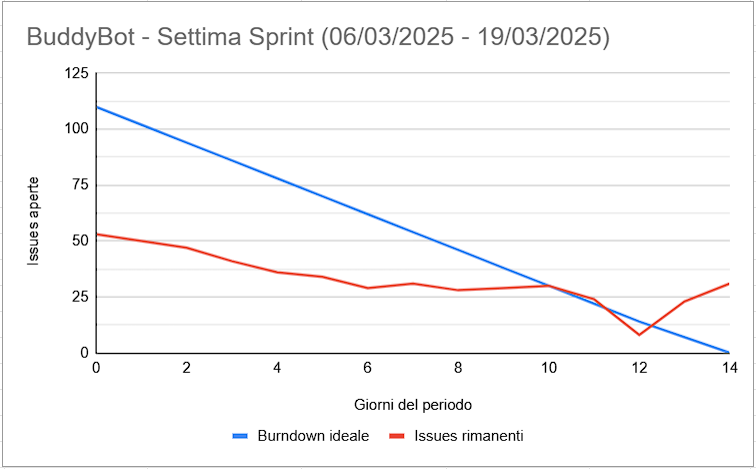
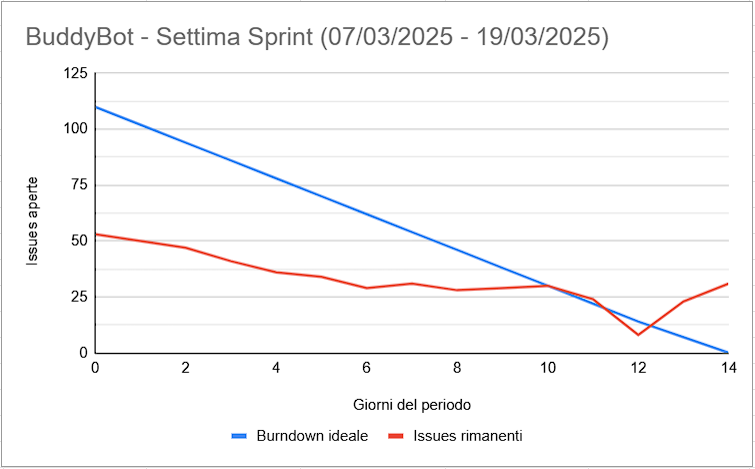
Inserite immagini diagrammi di burndown e di gantt per l'ottava sprint + altre modifiche

diff --git a/src/PB/Documentazione esterna/Piano di Qualifica/contenuti/cruscotto_valutazione_qualita.tex b/src/PB/Documentazione esterna/Piano di Qualifica/contenuti/cruscotto_valutazione_qualita.tex
@@ -24,7 +24,7 @@ preventivi orari vicini ai rispettivi consuntivi nel corso dell'andamento del pr
 nel preventivare il tempo necessario per lo svolgimento delle attività nella \emph{RTB}\textsubscript{\textbf{\textit{G}}}, capacità che poi è migliorata di molto nel corso della \emph{PB}\textsubscript{\textbf{\textit{G}}}. Il picco negativo si è manifestato nella seconda sprint, dove il team ha incontrato difficoltà
 nel modellare i \emph{Diagrammi dei Casi d'uso}\textsubscript{\textbf{\textit{G}}} e nel redigere i corrispettivi requisiti.
 Con il progredire delle sprint, il team ha acquisito maggiore esperienza nel preventivare
-il tempo necessario per lo svolgimento delle attività, riuscendo ad ottenere un valore di varianza oraria nullo, corrispondente al valore ottimo, nella sesta e nell'ottava e ultima sprint della \emph{PB}.
+il tempo necessario per lo svolgimento delle attività, riuscendo ad ottenere un valore di varianza oraria nullo, corrispondente al valore preferibile, nella sesta e nell'ottava e ultima sprint della \emph{PB}.
 
 \newpage
 
@@ -79,9 +79,10 @@ e la seconda sprint, per poi stabilizzarsi e migliorare nel corso delle sprint s
 
 Analizzando il grafico, si può notare come i tre valori abbiano sempre progredito seguendo una
 proporzione costante. In particolare, l’Actual Cost è stato sempre superiore al Planned Value,
-il quale a sua volta è stato sempre superiore all’Earned Value. Questo è dovuto al fatto che
-il team ha impiegato leggermente più tempo del previsto per svolgere leggermente meno attività preventivate.  
-In particolare, nelle ultime sprint vi è stato un leggero distacco tra l'Earned Value e gli altri due valori, dovuto al fatto che il team, pur rispettando il numero di ore, ha incontrato qualche difficoltà nelle attività di progettazione e programmazione.
+il quale a sua volta è stato sempre superiore all’Earned Value. Questo è dovuto al fatto che, in ciascuna sprint,
+il team ha impiegato leggermente più tempo del previsto per svolgere leggermente meno attività preventivate.\\
+In particolare, nelle ultime sprint vi è stato un leggero distacco tra l'Earned Value e gli altri due valori, dovuto al fatto che il team, pur rispettando il numero di ore, ha incontrato qualche difficoltà nelle attività di progettazione e programmazione.\\
+Tuttavia, il preventivo di valore da raggiungere concordato a inizio progetto, diverso dai preventivi delle singole sprint a cui si fa riferimento nel grafico, è stato regolarmente rispettato al termine dell'ultimo periodo.
 
 \newpage
 
@@ -97,11 +98,11 @@ In particolare, nelle ultime sprint vi è stato un leggero distacco tra l'Earned
 
 \section*{Analisi}
 
-Dal grafico, risulta ancora evidente come il team abbia avuto difficoltà nel
+Dal grafico, risulta evidente come il team abbia avuto difficoltà nel
 rispettare i costi preventivati, seppur abbia mediamente rispettato il numero di ore. La Schedule Variance e la Cost Variance sono infatti
-risultate sempre negative, tranne nelle ultime sprint delle revisioni \emph{RTB} e \emph{PB}, nelle quali si nota un miglioramento
+risultate sempre negative, tranne nelle ultime sprint dei periodi \emph{RTB} e \emph{PB}, nelle quali si nota un miglioramento
 significativo. I risultati peggiori si registrano nella seconda sprint e nella quinta sprint per i suddetti
-motivi, legati rispettivamenti all'analisi dei requisiti e alla progettazione: infatti, queste ultime rappresentano due tra le attività più costose del progetto, e quindi quando il team si è concentrato su di esse i costi sono saliti. Questo è il motivo per cui, seppur il numero di ore non sia mai stato largamente superato, la distribuzione delle stesse verso attività costose ha comportato una marcata varianza dei costi. Tuttavia, fortunatamente la varianza è stata bilanciata verso il termine delle revisioni, poiché le ore in quei periodi sono state dedicate ad attività come la codifica e la verifica, che sono meno costose.
+motivi, legati rispettivamenti all'analisi dei requisiti e alla progettazione: infatti, queste ultime rappresentano due tra le attività più costose del progetto, e quindi, quando il team si è concentrato su di esse, i costi sono saliti. Questo è il motivo per cui, seppur il numero di ore non sia mai stato largamente superato, la distribuzione delle stesse verso attività costose ha comportato una marcata varianza dei costi. Tuttavia, fortunatamente la varianza è stata bilanciata nelle sprint adiacenti al termine dei periodi \emph{RTB} e \emph{PB}, poiché le ore in quei periodi sono state dedicate ad attività come la codifica e la verifica, che sono meno costose.
 
 \newpage
 
@@ -119,12 +120,12 @@ motivi, legati rispettivamenti all'analisi dei requisiti e alla progettazione: i
 
 Similmente a quanto riscontrabile dall’analisi del grafico di Schedule e Cost Variance, anche
 il valore del Cost Performance Index è sceso sotto la soglia accettabile nella 
-sprint 2 e nella sprint 5, per poi recuperare nelle sprint terminali delle revisioni \emph{RTB} e \emph{PB}: ciò è dovuto, come suddetto, alle attività di analisi dei requisiti e di progettazione. Nella quarta sprint e nella settima sprint, invece, il team
+sprint 2 e nella sprint 5, per poi recuperare nelle sprint terminali dei periodi \emph{RTB} e \emph{PB}: ciò è dovuto, come suddetto, alle attività di analisi dei requisiti e di progettazione. Nella quarta sprint e nella settima sprint, invece, il team
 ha addirittura raggiunto un valore di Cost Performance Index superiore a 1, indicando
 che sono state spese meno risorse rispetto a quanto preventivato per lo svolgimento delle
 attività meno costose previste per le sprint finali.\\
-Il valore dello Schedule Performance Index è invece sempre stato inferiore a 1, addirittura scendendo sotto la soglia accettabile nella sprint 5, a indicare la difficoltà che il team ha avuto nel preventivare le ore in tale sprint, in cui, oltre alle difficoltà di progettazione, è da segnalare che metà gruppo è stato impegnato nello studio per il secondo appello di Ingegneria del Software.
-Nelle sprint 4, 7 ed 8, invece, lo Schedule Performance Index è risultato pari a 1, indicando che, come suddetto, verso la fine delle revisioni, il team è riuscito a svolgere
+Il valore dello Schedule Performance Index è invece sempre stato inferiore ad 1, addirittura scendendo sotto la soglia accettabile nella sprint 5, a indicare la difficoltà che il team ha avuto nel preventivare le ore in tale sprint, in cui, oltre alle difficoltà di progettazione, è da segnalare che metà gruppo è stato impegnato nello studio per il secondo appello di Ingegneria del Software.
+Nelle sprint 4, 7 ed 8, invece, lo Schedule Performance Index è risultato pari a 1, indicando che, come suddetto, verso la fine dei periodi \emph{RTB} e \emph{PB}, il team è riuscito a svolgere
 con successo tutte le attività preventivate.
 
 \newpage
@@ -142,7 +143,7 @@ con successo tutte le attività preventivate.
 \section*{Analisi}
 
 Durante il progetto, il team ha riscontrato difficoltà nell'applicare alcune misure di mitigazione
-per i rischi individuati.
+per i rischi individuati e riportati nel \emph{Piano di Progetto}\textsubscript{\textbf{\textit{G}}}.
 \begin{itemize}
     \item In particolare, per gestire i rischi legati alla comunicazione interna nella seconda sprint, è stato necessario che 
     tutti i membri del team si accordassero sia sulla sintassi che sulla semantica nella modellazione dei casi d'uso;
@@ -152,7 +153,7 @@ per i rischi individuati.
     un aiuto reciproco nella programmazione. La spartizione iniziale dei compiti prevedeva esploratori solitari per ciascuna 
     tecnologia e una bassa condivisione delle conoscenze. Questo ha reso difficile lavorare in gruppo e chiedere aiuto ai compagni 
     al momento dell'\emph{implementazione}\textsubscript{\textbf{\textit{G}}} del \emph{PoC}\textsubscript{\textbf{\textit{G}}};
-    \item Infine, nella quinta sprint, il team ha dovuto affrontare il rischio legato agli impegni accademici, poiché metà del gruppo ha dovuto studiare per il secondo appello di Ingegneria del Software. Questo ha comportato un rallentamento delle attività, che è stato mitigato con una ridistribuzione dei compiti e con un maggiore supporto reciproco.
+    \item Infine, nella quinta sprint, il team ha dovuto affrontare i rischi legati agli impegni accademici, poiché più di metà del gruppo ha dovuto studiare per il secondo appello di Ingegneria del Software. Questo ha comportato un rallentamento delle attività, che è stato mitigato con una ridistribuzione dei compiti e con un maggiore supporto reciproco.
 \end{itemize}
 Fortunamente, si può notare come il team abbia saputo reagire in modo efficace a queste difficoltà, riuscendo a presentare misure sufficienti per ciascuna di esse nelle ultime 3 sprint.
 
@@ -171,9 +172,9 @@ Fortunamente, si può notare come il team abbia saputo reagire in modo efficace 
 \section*{Analisi}
 
 Come osservabile dai valori riportati dal grafico, l’ampia analisi dei rischi effettuata a inizio progetto è stata soddisfacente. 
-L'unica problematica primaria riconoscibile come rischio non già presente nella sezione dedicata del \emph{Piano di progetto}\textsubscript{\textbf{\textit{G}}} è stata riscontrata solo al termine dei lavori: 
+L'unica problematica primaria riconoscibile come rischio non già presente nella sezione dedicata del \emph{Piano di progetto} è stata riscontrata solo al termine dei lavori: 
 si tratta dell'assenza di un professore, in particolare del professor Cardin, nell'ultima settimana di marzo, che ha comportato il posticipo del termine del progetto. 
-Fortunatamente, essendo questa problematica emersa solamente nel periodo finale del progetto, non ha causato ritardi su attività precedenti alla revisione \emph{Product Baseline}\textsubscript{\textbf{\textit{G}}}, 
+Fortunatamente, essendo questa problematica emersa solamente nella sprint finale, non ha causato ritardi su attività precedenti alla revisione \emph{Product Baseline}\textsubscript{\textbf{\textit{G}}}, 
 però potrebbe causare ritardi in caso emergano errori a valle della revisione.
 Inoltre, questa situazione ha costretto un componente del gruppo a posticipare l'inizio del proprio tirocinio, dimostrando l'impatto che i rischi inattesi possono avere sulla pianificazione personale dei membri del team.\\
 Il team si è trovato inizialmente impreparato, ma ha poi saputo reagire in modo efficace, 
@@ -281,11 +282,11 @@ L'\emph{MVP}\textsubscript{\textbf{\textit{G}}} sviluppato nella \emph{Product B
 
 Questi valori mostrano che la documentazione è generalmente accessibile e comprensibile, 
 dato che tutti i documenti superano la soglia accettabile di 40 nell'\emph{indice di Gulpease}\textsubscript{\textbf{\textit{G}}}, 
-con la maggior parte dei valori che si avvicinano al "valore preferibile" di 60. 
+con la maggior parte dei valori che si avvicinano al valore preferibile di 60. 
 In particolare, è utile notare come, nel grafico relativo all'andamento dell'indice di Gulpease dei verbali durante la \emph{RTB}\textsubscript{\textbf{\textit{G}}}, la linea di tendenza sia crescente,
 il che mostra un generale miglioramento da parte del gruppo nella qualità della documentazione prodotta.
 Questa tendenza è stata confermata nella \emph{Product Baseline}\textsubscript{\textbf{\textit{G}}},
-durante la quale il valore dell'indice per i verbali ha avuto una crescita meno evidente, ma si è stabilizzato attorno al "valore preferibile" di 60.
+durante la quale il valore dell'indice per i verbali ha avuto una crescita meno evidente, ma si è stabilizzato attorno al valore preferibile di 60.
 
 \newpage
 
@@ -300,4 +301,4 @@ durante la quale il valore dell'indice per i verbali ha avuto una crescita meno 
 \end{figure}
 
 \section*{Analisi}
-La \emph{Code Coverage}\textsubscript{\textbf{\textit{G}}} è un indicatore che misura la percentuale di codice sorgente coperto dai \emph{test}\textsubscript{\textbf{\textit{G}}}. Nel tentativo di migliorare questo indicatore, il team ha scritto \emph{test di unità}\textsubscript{\textbf{\textit{G}}} e \emph{test di integrazione}\textsubscript{\textbf{\textit{G}}} per ogni classe del \emph{backend}\textsubscript{\textbf{\textit{G}}} e per ogni componente del \emph{frontend}\textsubscript{\textbf{\textit{G}}}, raggiungendo un valore di coverage pari al 90\% per entrambi. Questo è un buon risultato, che dimostra l'efficacia dei test effettuati, e soprattutto che soddisfa la soglia minima richiesta dal \emph{proponente} \emph{AzzurroDigitale}\textsubscript{\textbf{\textit{G}}}, cioè 70/80\% di copertura, che il team è stato in grado anche di superare.
+La \emph{Code Coverage}\textsubscript{\textbf{\textit{G}}} è un indicatore che misura la percentuale di righe di codice sorgente coperte dai \emph{test}\textsubscript{\textbf{\textit{G}}}. Nel tentativo di migliorare questo indicatore, il team ha scritto \emph{test di unità}\textsubscript{\textbf{\textit{G}}} e \emph{test di integrazione}\textsubscript{\textbf{\textit{G}}} per ogni classe del \emph{backend}\textsubscript{\textbf{\textit{G}}} e per ogni componente del \emph{frontend}\textsubscript{\textbf{\textit{G}}}, raggiungendo un valore di coverage pari al 90\% per entrambi. Questo è un buon risultato, che dimostra l'efficacia dei test effettuati, e soprattutto che soddisfa la soglia minima richiesta dal \emph{proponente} \emph{AzzurroDigitale}\textsubscript{\textbf{\textit{G}}}, cioè 70/80\% di copertura, che il team è stato in grado anche di superare.

diff --git a/src/PB/Documentazione esterna/Piano di Progetto/contenuti/pianificazione.tex b/src/PB/Documentazione esterna/Piano di Progetto/contenuti/pianificazione.tex
@@ -409,11 +409,11 @@ Infine, abbiamo iniziato a lavorare all'ottimizzazione della gestione delle modi
     \begin{tabularx}{\textwidth}{|X|X|}\hline
     \rowcolor[HTML]{FFD700} 
     \textbf{Data di inizio} & \textbf{Data di fine} \\ \hline
-    06/03/2025 & 19/03/2025 \\ \hline
+    07/03/2025 & 19/03/2025 \\ \hline
     \end{tabularx}
     \caption{Settimo periodo dedicato alla PB}
 \end{table}
-Il settimo periodo, che va dal 6 al 19 marzo 2025, è stato dedicato principalmente alla programmazione dell'\emph{MVP}.\\
+Il settimo periodo, che va dal 7 al 19 marzo 2025, è stato dedicato principalmente alla programmazione dell'\emph{MVP}.\\
 In particolare, sono state implementate le seguenti funzionalità:
 \begin{itemize}
     \item L'ottimizzazione della gestione delle modifiche e delle eliminazioni dei documenti nell'aggiornamento automatico del \emph{database vettoriale}, che, in particolare, è stata implementata differenziando la gestione tra l'aggiornamento dei file di \emph{GitHub}\textsubscript{\textbf{\textit{G}}} e l'aggiornamento degli altri documenti;
@@ -434,15 +434,15 @@ Infine, il giorno mercoledì 19 marzo, al termine del periodo, abbiamo svolto la
 \begin{figure}[h] 
     \centering
     \includegraphics[width=\textwidth]{Settimo periodo/Diagramma di Gantt (prima parte) - Settimo periodo.png}
-    \caption{Diagramma di Gantt settimo periodo dal 21/02/2025 - 06/03/2025: prima parte} 
-    \label{fig: Diagramma di Gantt settimo periodo dal 21/02/2025 - 06/03/2025: prima parte}
+    \caption{Diagramma di Gantt settimo periodo dal 07/03/2025 - 19/03/2025: prima parte} 
+    \label{fig: Diagramma di Gantt settimo periodo dal 07/03/2025 - 19/03/2025: prima parte}
 \end{figure}
 \newpage
 \begin{figure}[h] 
     \centering
     \includegraphics[width=\textwidth]{Settimo periodo/Diagramma di Gantt (seconda parte) - Settimo periodo.png}
-    \caption{Diagramma di Gantt settimo periodo dal 21/02/2025 - 06/03/2025: seconda parte} 
-    \label{fig: Diagramma di Gantt settimo periodo dal 21/02/2025 - 06/03/2025: seconda parte}
+    \caption{Diagramma di Gantt settimo periodo dal 07/03/2025 - 19/03/2025: seconda parte} 
+    \label{fig: Diagramma di Gantt settimo periodo dal 07/03/2025 - 19/03/2025: seconda parte}
 \end{figure}
 
 \newpage
@@ -462,25 +462,25 @@ L'ottavo periodo, che va dal 20 marzo al 3 aprile 2025, è stato dedicato alla f
 Tra le principali attività, si è proceduto con l'aggiornamento del cruscotto di valutazione della qualità nel \emph{Piano di Qualifica}, l'inserimento delle immagini definitive dei diagrammi di \emph{progettazione} nella \emph{Specifica Tecnica}, la scrittura della lettera di presentazione, e la rilettura e la verifica di tutti i documenti per correggere errori e migliorare la loro coerenza. Inoltre, è stato sistemato il README del \emph{repository} dell’\emph{MVP} su richiesta del \emph{proponente}, ed è stata redatta la presentazione per l’incontro con il professor Cardin.
 
 \newpage
-%\begin{figure}[h] 
-%     \centering
-%     \includegraphics[width=\textwidth]{Ottavo periodo/Diagramma di Burndown - Ottavo periodo.png}
-%     \caption{Diagramma di Burndown dell' ottavo periodo} 
-%     \label{fig: Diagramma di Burndown dell'ottavo periodo}
-%\end{figure}
-%\newpage
-%\begin{figure}[h] 
-%     \centering
-%     \includegraphics[width=\textwidth]{Ottavo periodo/Diagramma di Gantt (prima parte) - Ottavo periodo.png}
-%     \caption{Diagramma di Gantt ottavo periodo dal 20/03/2025 - 03/04/2025: prima parte} 
-%     \label{fig: Diagramma di Gantt ottavo periodo dal 20/03/2025 - 03/04/2025: prima parte}
-%\end{figure}
-%\newpage
-%\begin{figure}[h] 
-%     \centering
-%     \includegraphics[width=\textwidth]{Ottavo periodo/Diagramma di Gantt (seconda parte) - Ottavo periodo.png}
-%     \caption{Diagramma di Gantt ottavo periodo dal 20/03/2025 - 03/04/2025: seconda parte} 
-%     \label{fig: Diagramma di Gantt ottavo periodo dal 20/03/2025 - 03/04/2025: seconda parte}
-%\end{figure}
-%\newpage
+\begin{figure}[h] 
+    \centering
+    \includegraphics[width=\textwidth]{Ottavo periodo/Diagramma di Burndown - Ottavo periodo.png}
+    \caption{Diagramma di Burndown dell' ottavo periodo} 
+    \label{fig: Diagramma di Burndown dell'ottavo periodo}
+\end{figure}
+\newpage
+\begin{figure}[h] 
+    \centering
+    \includegraphics[width=\textwidth]{Ottavo periodo/Diagramma di Gantt (prima parte) - Ottavo periodo.png}
+    \caption{Diagramma di Gantt ottavo periodo dal 20/03/2025 - 03/04/2025: prima parte} 
+    \label{fig: Diagramma di Gantt ottavo periodo dal 20/03/2025 - 03/04/2025: prima parte}
+\end{figure}
+\newpage
+\begin{figure}[h] 
+    \centering
+    \includegraphics[width=\textwidth]{Ottavo periodo/Diagramma di Gantt (seconda parte) - Ottavo periodo.png}
+    \caption{Diagramma di Gantt ottavo periodo dal 20/03/2025 - 03/04/2025: seconda parte} 
+    \label{fig: Diagramma di Gantt ottavo periodo dal 20/03/2025 - 03/04/2025: seconda parte}
+\end{figure}
+\newpage
 

diff --git a/src/PB/Documentazione esterna/Piano di Progetto/contenuti/preventivo_e_consuntivo.tex b/src/PB/Documentazione esterna/Piano di Progetto/contenuti/preventivo_e_consuntivo.tex
@@ -663,7 +663,7 @@ I rischi occorsi durante il sesto periodo sono stati:
 \end{itemize}
 I rischi legati alla complessità delle nuove tecnologie derivano dal fatto che l’avvento della programmazione ci ha posto di fronte a sfide tecnologiche che abbiamo dovuto affrontare e risolvere.
 
-\subsubsubsection{Preventivo settimo periodo: 07/02/2025 - 19/03/2025}
+\subsubsubsection{Preventivo settimo periodo: 07/03/2025 - 19/03/2025}
 \begin{table}[h!]
     \centering
     \renewcommand{\arraystretch}{1.5}
@@ -684,7 +684,7 @@ I rischi legati alla complessità delle nuove tecnologie derivano dal fatto che 
 
 
 \newpage
-\subsubsection{Settimo periodo: 06/03/2025 - 19/03/2025}
+\subsubsection{Settimo periodo: 07/03/2025 - 19/03/2025}
 \label{sec:prev_cons_settimo_periodo}  
 Gli obiettivi fissati per il settimo periodo sono:
 \begin{itemize}
@@ -699,7 +699,7 @@ Gli obiettivi fissati per il settimo periodo sono:
     \item Svolgere la \emph{demo}\textsubscript{\textbf{\textit{G}}} dell'\emph{MVP} assieme al \emph{proponente} e validare il prodotto.
 \end{itemize}
 
-\subsubsubsection{Consuntivo settimo periodo: 06/03/2025 - 19/03/2025}
+\subsubsubsection{Consuntivo settimo periodo: 07/03/2025 - 19/03/2025}
 Tutti gli obiettivi predisposti all'inizio del periodo sono stati soddisfatti con successo.\\
 
 \paragraph{Prospetto orario: }
@@ -722,7 +722,7 @@ Nel settimo periodo si è registrato un consumo orario circa in linea con quanto
     \caption{Suddivisione oraria per ruolo nel settimo periodo}
 \end{table}
 
-\paragraph{Prospetto economico settimo periodo: 06/03/2025 - 19/03/2025: }
+\paragraph{Prospetto economico settimo periodo: 07/03/2025 - 19/03/2025: }
 Il prospetto economico relativo al settimo periodo evidenzia i costi sostenuti per ciascun membro del team, suddivisi per ruolo, e il saldo complessivo a fine periodo.\\
 L'analisi dei costi si è concentrata sulle ore di lavoro effettivamente registrate, che hanno comportato un lieve incremento rispetto al preventivo iniziale, dovuto principalmente a un maggiore impegno nell'attività di programmazione.\\
 In dettaglio, il costo orario per ogni membro del team è stato calcolato in base al ruolo interpretato, con i costi totali che sono stati ottenuti considerando le ore di lavoro svolte.\\
@@ -742,14 +742,14 @@ Questo prospetto offre una visione chiara dell'impatto economico del periodo e c
     \caption{Costi sostenuti durante il settimo periodo e saldo rimanente}
 \end{table}
 
-\paragraph{Rischi occorsi settimo periodo: 06/03/2025 - 19/03/2025: }
+\paragraph{Rischi occorsi settimo periodo: 07/03/2025 - 19/03/2025: }
 I rischi occorsi durante il settimo periodo sono stati:
 \begin{itemize}
     \item \S\bulref{sec:Complessità delle nuove tecnologie}: Complessità delle nuove tecnologie.
 \end{itemize}
 I rischi legati alla complessità delle nuove tecnologie derivano dal fatto che la programmazione è stata l'attività primaria del periodo, e per programmare tutte le funzionalità siamo venuti incontro a sfide tecnologiche che abbiamo dovuto affrontare e risolvere.
 
-\subsubsubsection{Preventivo ottavo periodo: 19/03/2025 - 03/04/2025}
+\subsubsubsection{Preventivo ottavo periodo: 20/03/2025 - 03/04/2025}
 \begin{table}[h!]
     \centering
     \renewcommand{\arraystretch}{1.5}
